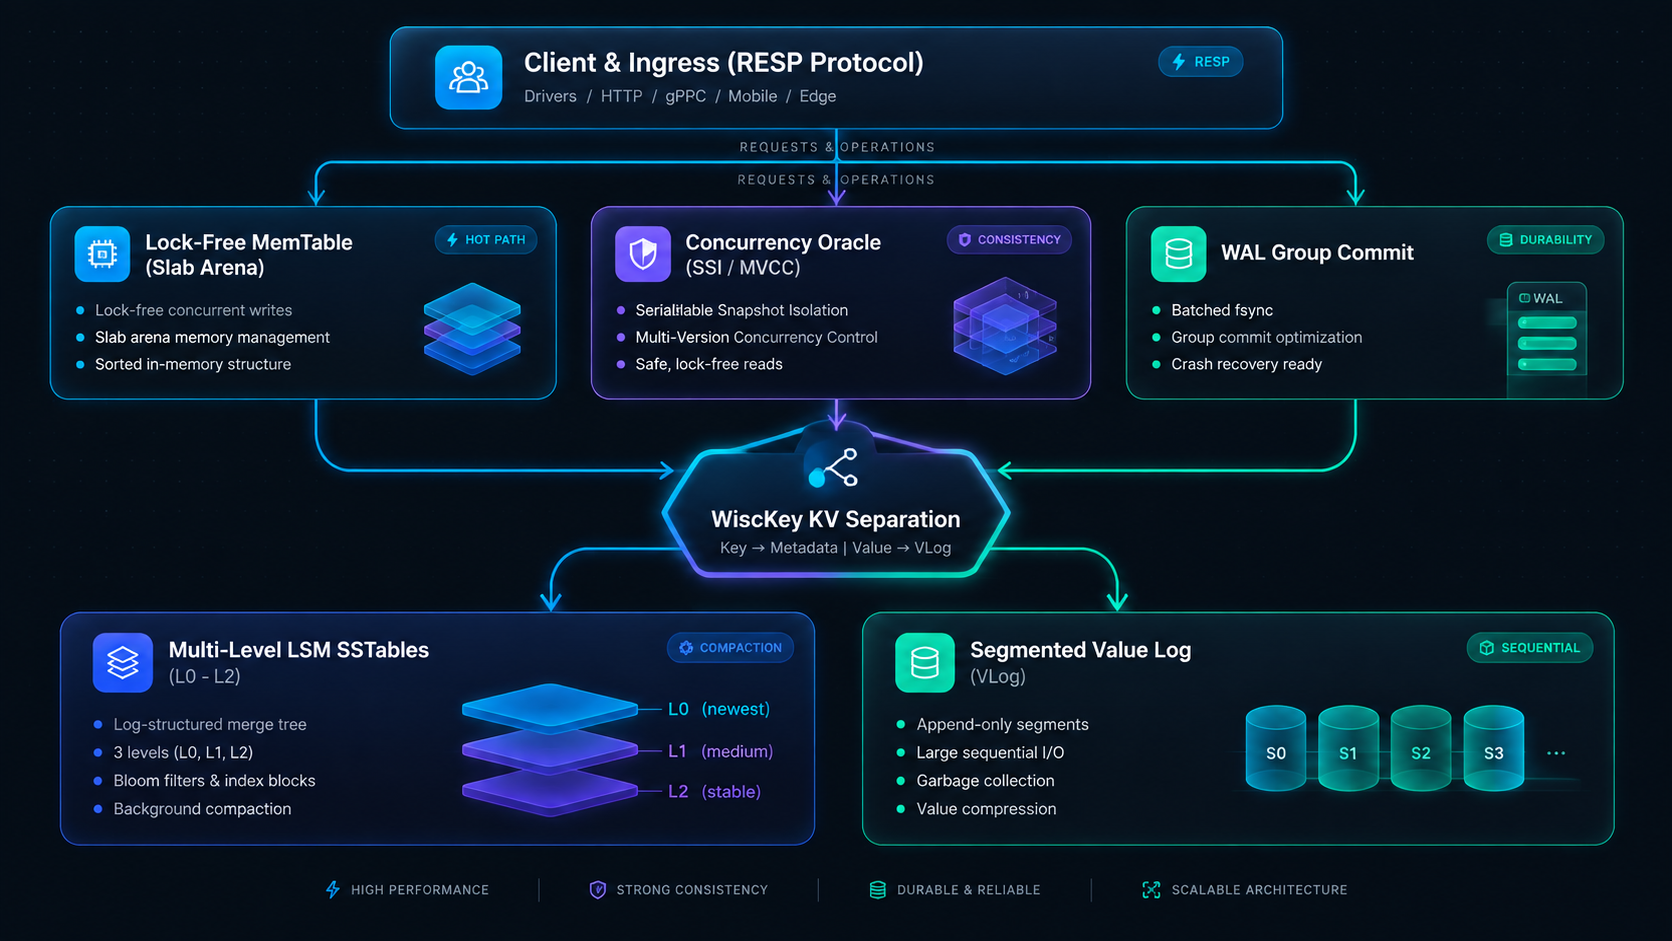
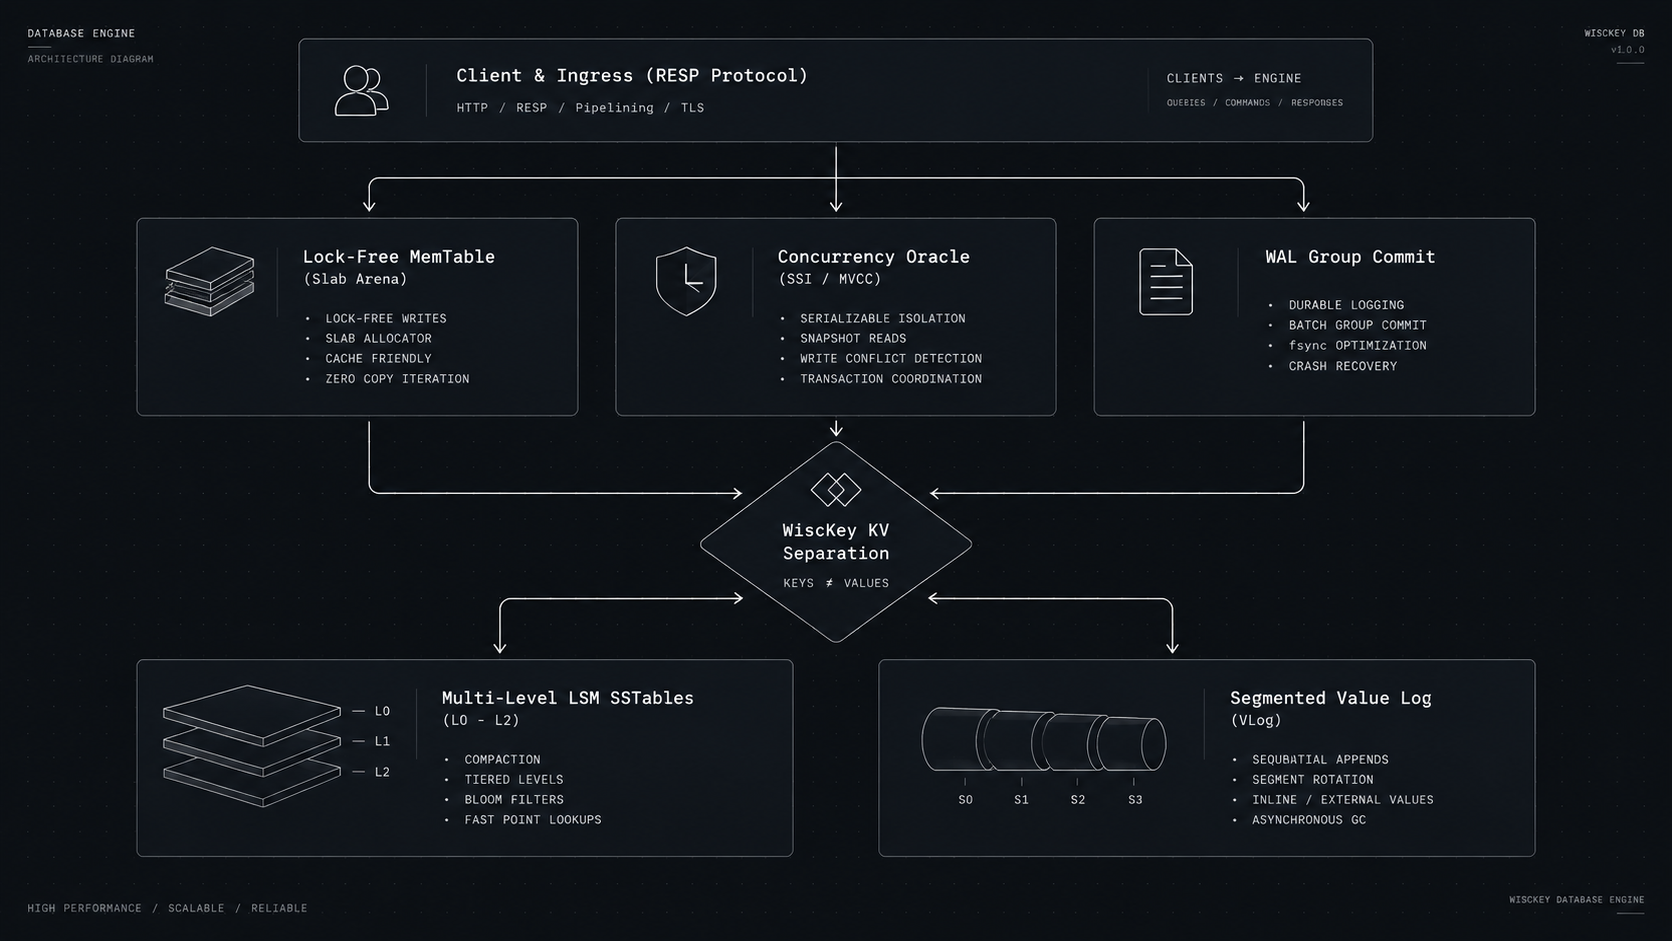
updated design

diff --git a/README.md b/README.md
@@ -1,11 +1,23 @@
-# AkwaDB
+<p align="center">
+  <img src="assets/icon.png" alt="AkwaDB Logo" width="120" height="120">
+</p>
 
-[![Go Version](https://img.shields.io/badge/go-1.26.5-007d9c?style=flat-square&logo=go&logoColor=white)](https://golang.org)
-[![License](https://img.shields.io/badge/license-MIT-blue?style=flat-square)](LICENSE)
-[![Protocol](https://img.shields.io/badge/protocol-RESP%20(Redis)-d82c20?style=flat-square&logo=redis&logoColor=white)](https://redis.io)
-[![I/O Engine](https://img.shields.io/badge/async_I%2FO-Linux_io__uring-333333?style=flat-square&logo=linux&logoColor=white)](https://kernel.org)
-[![Isolation](https://img.shields.io/badge/isolation-SSI_%2F_MVCC-green?style=flat-square)]()
-[![Pure Go](https://img.shields.io/badge/dependencies-zero--Cgo-success?style=flat-square)]()
+<h1 align="center">AkwaDB</h1>
+
+<p align="center">
+  <strong>High-performance, flash-optimized persistent key-value storage engine in pure Go.</strong>
+</p>
+
+<p align="center">
+  <a href="https://golang.org"><img src="https://img.shields.io/badge/go-1.26.5-007d9c?style=flat-square&logo=go&logoColor=white" alt="Go Version"></a>
+  <a href="LICENSE"><img src="https://img.shields.io/badge/license-MIT-blue?style=flat-square" alt="License"></a>
+  <a href="https://redis.io"><img src="https://img.shields.io/badge/protocol-RESP%20(Redis)-d82c20?style=flat-square&logo=redis&logoColor=white" alt="Protocol"></a>
+  <a href="https://kernel.org"><img src="https://img.shields.io/badge/async_I%2FO-Linux_io__uring-333333?style=flat-square&logo=linux&logoColor=white" alt="I/O Engine"></a>
+  <img src="https://img.shields.io/badge/isolation-SSI_%2F_MVCC-green?style=flat-square" alt="Isolation">
+  <img src="https://img.shields.io/badge/dependencies-zero--Cgo-success?style=flat-square" alt="Pure Go">
+</p>
+
+<br>
 
 **AkwaDB** is a high-performance, flash-optimized persistent key-value storage engine engineered in pure Go. It combines a multi-level LSM-tree with WiscKey key-value separation, Serializable Snapshot Isolation (SSI / MVCC), enterprise at-rest encryption (TDE), and drop-in Redis (RESP) protocol compatibility.
 
